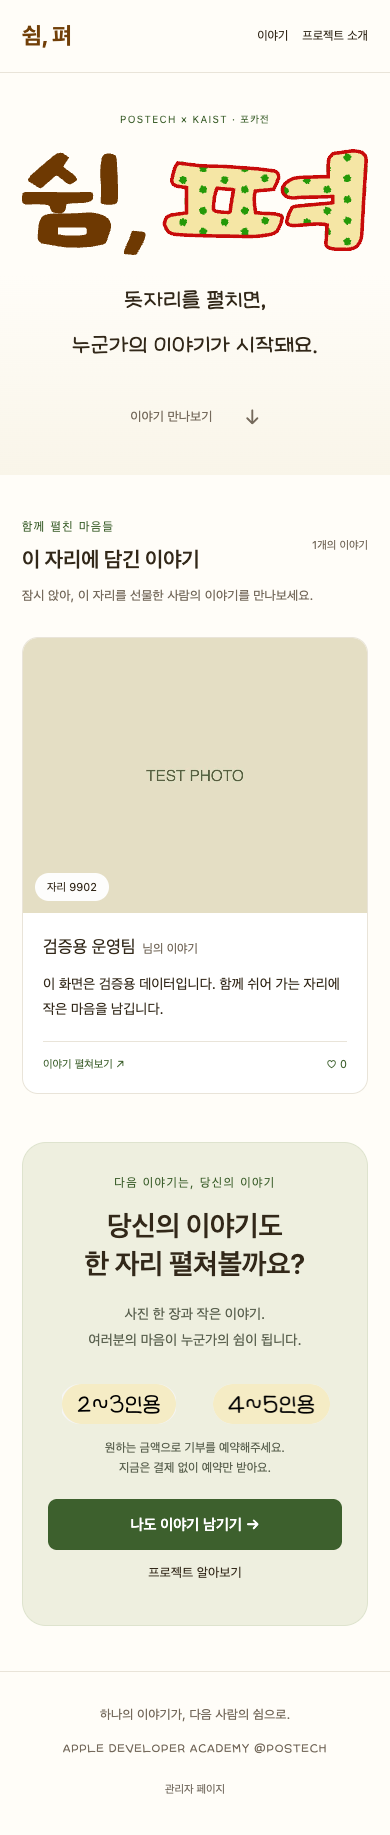
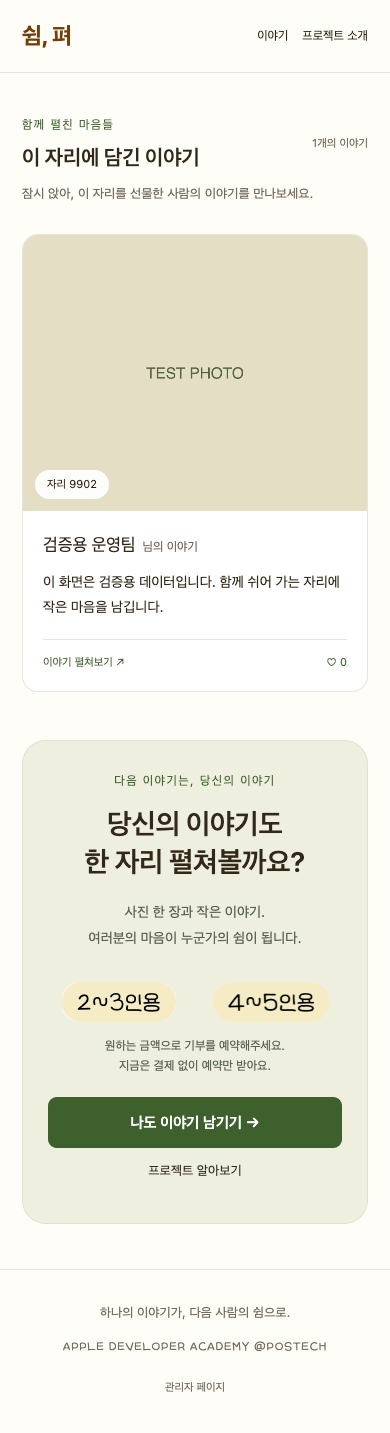
[fix] 메인을 이야기 열람 화면으로 변경

diff --git a/apps/web/src/app/globals.css b/apps/web/src/app/globals.css
@@ -2,14 +2,14 @@
 
 :root{--ink:#322819;--muted:#756a5c;--green:#3d602d;--paper:#fffdf8;--cream:#f5e6a5;--border:#e9e4d9;--red:#bb2c22;--radius:16px}
 *{box-sizing:border-box}html{scroll-behavior:smooth;scroll-padding-top:24px}body{margin:0;background:var(--paper);color:var(--ink);font-family:-apple-system,BlinkMacSystemFont,"Apple SD Gothic Neo",sans-serif;font-size:16px;line-height:1.65}a{color:inherit;text-decoration:none}button,input,textarea,select{font:inherit}button,a,input,select,textarea{-webkit-tap-highlight-color:transparent}button{cursor:pointer}button:disabled{cursor:default}img{display:block;max-width:100%}h1,h2,h3,p{margin:0}h1,h2,h3{font-weight:600;line-height:1.35;word-break:keep-all}button:focus-visible,a:focus-visible,input:focus-visible,select:focus-visible,textarea:focus-visible,summary:focus-visible{outline:3px solid var(--green);outline-offset:4px}.sr-only{position:absolute;width:1px;height:1px;padding:0;overflow:hidden;clip:rect(0,0,0,0);white-space:nowrap;border:0}.skip-link{position:fixed;top:-100px;left:16px;z-index:100;padding:12px;background:var(--ink);color:white}.skip-link:focus{top:10px}
-.site-header{max-width:1120px;margin:auto;padding:23px 32px;display:flex;justify-content:space-between;align-items:center;border-bottom:1px solid var(--border);gap:20px}.wordmark{font-size:26px;font-weight:700;color:#713f08;white-space:nowrap}.wordmark span{font-size:12px;font-weight:400;color:var(--muted);margin-left:14px}.site-header nav{display:flex;gap:26px;font-size:14px}.site-header nav a{padding:12px 0}.site-header nav a:hover,.text-link:hover{text-decoration:underline;text-underline-offset:5px}.eyebrow{display:block;letter-spacing:.12em;font-size:12px;color:var(--green)}.hero{position:relative;text-align:center;padding:54px 24px 38px;background:linear-gradient(180deg,#fffdf8 50%,#f9f5e9)}.hero h1{max-width:540px;margin:22px auto 28px}.brand-title{width:100%;height:auto}.hero>p{font-size:21px;line-height:1.85}.hero strong{font-weight:400}.hero-jump{display:inline-flex;align-items:center;gap:32px;padding:14px 20px;margin-top:20px;font-size:13px;color:var(--muted)}.hero-jump span{font-size:20px}.stories-section{max-width:1060px;margin:auto;padding:65px 30px 80px}.section-heading{display:flex;justify-content:space-between;align-items:center;gap:20px}.section-heading h2{font-size:28px;margin-top:8px}.count{font-size:13px;white-space:nowrap;color:var(--muted)}.section-description{color:var(--muted);font-size:14px;margin:12px 0 30px;word-break:keep-all}.story-grid{display:grid;grid-template-columns:repeat(3,minmax(0,1fr));gap:26px}.story-card{display:block;background:white;border:1px solid var(--border);border-radius:var(--radius);overflow:hidden;transition:transform .2s,box-shadow .2s}.story-card:hover{transform:translateY(-4px);box-shadow:0 12px 30px #372a1010}.card-photo{position:relative;aspect-ratio:1.18;overflow:hidden;background:#eeeadf}.card-photo>img{width:100%;height:100%;object-fit:cover}.mat-number{position:absolute;bottom:12px;left:12px;background:#fffffff0;border-radius:30px;font-size:11px;padding:5px 12px}.card-copy{padding:20px}.card-name{font-size:18px;overflow-wrap:anywhere}.card-name>span{font-size:12px;margin-left:6px;color:var(--muted)}.card-story{font-size:14px;margin-top:10px;line-height:1.8;display:-webkit-box;-webkit-line-clamp:3;-webkit-box-orient:vertical;overflow:hidden;min-height:76px;overflow-wrap:anywhere;white-space:pre-wrap}.card-bottom{display:flex;justify-content:space-between;gap:8px;border-top:1px solid var(--border);margin-top:20px;padding-top:13px;font-size:11px;color:var(--green)}.empty-state{padding:50px 24px;text-align:center;background:#f8f5eb;border-radius:var(--radius)}.empty-state h3{font-size:20px;margin-bottom:10px}.empty-state p{color:var(--muted)}
+.site-header{max-width:1120px;margin:auto;padding:23px 32px;display:flex;justify-content:space-between;align-items:center;border-bottom:1px solid var(--border);gap:20px}.wordmark{font-size:26px;font-weight:700;color:#713f08;white-space:nowrap}.wordmark span{font-size:12px;font-weight:400;color:var(--muted);margin-left:14px}.site-header nav{display:flex;gap:26px;font-size:14px}.site-header nav a{padding:12px 0}.site-header nav a:hover,.text-link:hover{text-decoration:underline;text-underline-offset:5px}.eyebrow{display:block;letter-spacing:.12em;font-size:12px;color:var(--green)}.hero{position:relative;text-align:center;padding:54px 24px 38px;background:linear-gradient(180deg,#fffdf8 50%,#f9f5e9)}.hero h1{max-width:540px;margin:22px auto 28px}.brand-title{width:100%;height:auto}.hero>p{font-size:21px;line-height:1.85}.hero strong{font-weight:400}.hero-jump{display:inline-flex;align-items:center;gap:32px;padding:14px 20px;margin-top:20px;font-size:13px;color:var(--muted)}.hero-jump span{font-size:20px}.stories-section{max-width:1060px;margin:auto;padding:65px 30px 80px}.section-heading{display:flex;justify-content:space-between;align-items:center;gap:20px}.section-heading h2,.section-heading h1{font-size:28px;margin-top:8px}.count{font-size:13px;white-space:nowrap;color:var(--muted)}.section-description{color:var(--muted);font-size:14px;margin:12px 0 30px;word-break:keep-all}.story-grid{display:grid;grid-template-columns:repeat(3,minmax(0,1fr));gap:26px}.story-card{display:block;background:white;border:1px solid var(--border);border-radius:var(--radius);overflow:hidden;transition:transform .2s,box-shadow .2s}.story-card:hover{transform:translateY(-4px);box-shadow:0 12px 30px #372a1010}.card-photo{position:relative;aspect-ratio:1.18;overflow:hidden;background:#eeeadf}.card-photo>img{width:100%;height:100%;object-fit:cover}.mat-number{position:absolute;bottom:12px;left:12px;background:#fffffff0;border-radius:30px;font-size:11px;padding:5px 12px}.card-copy{padding:20px}.card-name{font-size:18px;overflow-wrap:anywhere}.card-name>span{font-size:12px;margin-left:6px;color:var(--muted)}.card-story{font-size:14px;margin-top:10px;line-height:1.8;display:-webkit-box;-webkit-line-clamp:3;-webkit-box-orient:vertical;overflow:hidden;min-height:76px;overflow-wrap:anywhere;white-space:pre-wrap}.card-bottom{display:flex;justify-content:space-between;gap:8px;border-top:1px solid var(--border);margin-top:20px;padding-top:13px;font-size:11px;color:var(--green)}.empty-state{padding:50px 24px;text-align:center;background:#f8f5eb;border-radius:var(--radius)}.empty-state h3{font-size:20px;margin-bottom:10px}.empty-state p{color:var(--muted)}
 .donation{max-width:1000px;margin:0 auto 75px;padding:46px 48px;background:#eeefdf;border:1px solid #dee3ce;border-radius:24px;display:grid;grid-template-columns:1fr 1fr;gap:50px}.donation h2{font-size:30px;margin:14px 0 18px}.donation-heading>p{font-size:14px;color:#5b6250;line-height:1.9}.donation-details{align-self:center}.mat-options{display:grid;grid-template-columns:1fr 1fr;gap:12px}.mat-options>div{display:flex;flex-direction:column;align-items:center;gap:10px}.mat-options strong{font-size:23px;font-weight:500}.mat-options img{object-fit:contain}.donation-note{font-size:12px;text-align:center;color:#5b6250;margin:14px 0 22px}.button{min-height:48px;padding:13px 22px;border-radius:9px;border:1px solid transparent;display:inline-flex;align-items:center;justify-content:center;gap:18px;font-weight:600;font-size:15px;text-align:center;line-height:1.5}.primary{background:var(--green);color:#fff}.primary:hover{background:#2e4c20}.button:disabled{opacity:.55}.secondary{background:white;border-color:var(--border)}.secondary:hover{background:#f3f1e9}.donation .primary{width:100%}.text-link{font-size:13px;text-align:center;display:block;padding:12px}.bank-info{padding:20px 0;border-top:1px solid #d7ddc7;margin-bottom:10px;font-size:14px;overflow-wrap:anywhere}.bank-info h3{font-size:14px;margin-bottom:8px}.notice{margin-top:10px;color:#854323;font-size:12px}.site-footer{padding:32px 24px 24px;text-align:center;border-top:1px solid var(--border);color:var(--muted);font-size:13px}.academy{font-size:10px;letter-spacing:.07em;margin-top:12px}.admin-link{display:inline-flex;align-items:center;min-height:44px;font-size:11px;margin-top:8px;color:#766e63}.admin-link:hover{text-decoration:underline}
 .story-detail{max-width:760px;margin:0 auto;padding:28px 30px 65px}.back-link{font-size:13px;color:var(--muted);display:inline-flex;padding:10px 0}.detail-heading{text-align:center;margin:34px 0 30px}.detail-number{font-size:13px;margin:10px 0 12px;color:var(--muted)}.detail-number span{margin-left:10px;border-left:1px solid var(--border);padding-left:10px}.detail-heading h1{font-size:32px;overflow-wrap:anywhere;word-break:normal}.detail-heading h1 span{display:block;font-size:17px;color:var(--muted);margin-top:6px}.story-paper{padding:18px;background:#fff;border:1px solid var(--border);box-shadow:0 7px 24px #47381109;transform:rotate(-.5deg)}.detail-photo{width:100%;max-height:600px;object-fit:contain;background:#f7f5ef}.story-letter{padding:34px 25px 24px;text-align:center}.story-letter p{font-size:22px;line-height:1.95;white-space:pre-wrap;overflow-wrap:anywhere}.story-letter>span{display:block;margin-top:25px;color:var(--muted);font-size:13px;overflow-wrap:anywhere}.reaction-wrap{text-align:center;margin:35px 0 25px}.reaction-button{display:inline-flex;align-items:center;gap:10px;background:#fff;border:1px solid #ddc2aa;border-radius:40px;padding:13px 23px;min-height:52px;font-size:15px;color:var(--ink)}.reaction-button>span{font-size:25px;color:var(--red);line-height:1}.reaction-button strong{font-size:14px;font-weight:400;border-left:1px solid var(--border);padding-left:12px}.reaction-button.reacted{background:#fcf0e8;border-color:#d9ab90}.reaction-wrap>p{font-size:12px;margin-top:12px;color:var(--muted)}.story-detail>.secondary{display:flex;margin:0 auto;width:max-content;max-width:100%;font-size:13px}
 .about-intro{text-align:center;padding:60px 24px}.about-intro h1{max-width:480px;margin:25px auto 50px}.about-intro h2{font-size:34px;margin-bottom:28px}.about-intro p{line-height:2.2;color:var(--muted);margin-top:24px}.about-steps{max-width:1000px;margin:0 auto 60px;padding:0 30px}.about-steps>h2{font-size:25px;text-align:center}.about-steps ol{list-style:none;padding:0;margin:36px 0;display:grid;grid-template-columns:repeat(3,1fr);gap:25px}.about-steps li{padding:26px 0;border-top:1px solid var(--border)}.about-steps li>span{color:var(--green);font-size:13px}.about-steps h3{font-size:19px;margin:12px 0}.about-steps p{font-size:14px;color:var(--muted)}.page-message{text-align:center;padding:100px 24px;min-height:65vh}.page-message h1{font-size:26px}.page-message p{margin:20px 0 30px;color:var(--muted)}
 label{display:block;font-size:14px;font-weight:600}input,textarea,select{display:block;width:100%;padding:12px 14px;border:1px solid #cfc9bd;border-radius:8px;background:#fff;color:var(--ink);min-height:48px;margin-top:7px}textarea{resize:vertical}small{font-size:12px;color:var(--muted);font-weight:400;display:block;margin-top:6px}fieldset{border:0;margin:0;padding:0;min-width:0}input[type=checkbox]{width:20px;height:20px;min-height:20px;margin:0;accent-color:var(--green)}.error-message{color:#a32520!important;font-size:13px;margin:12px 0}.login-panel{max-width:460px;margin:70px auto 100px;padding:30px}.login-panel h1{margin:10px 0 15px;font-size:30px}.login-panel>p{font-size:14px;color:var(--muted)}.login-panel form{margin-top:30px}.login-panel .button{width:100%;margin-top:20px}.admin-page{max-width:1000px;margin:auto;padding:45px 30px 70px}.admin-page h1{font-size:30px;margin-top:8px}.admin-page>.section-heading+p{color:var(--muted);margin-top:12px;font-size:14px}.text-button,.danger-button{background:none;border:0;padding:12px;font-size:13px;min-height:44px}.danger-button{color:#a32520;text-decoration:underline}.admin-summary{display:flex;flex-wrap:wrap;gap:25px;padding:25px;background:#f2f0e6;margin:25px 0;border-radius:12px;font-size:13px}.admin-summary strong{margin-left:8px;font-size:22px}.editor{background:white;padding:28px;border:1px solid var(--border);border-radius:16px;margin:25px 0}.editor h2{font-size:23px;margin:0}.editor fieldset>label,.editor .form-row{margin-top:22px}.form-row{display:grid;grid-template-columns:1fr 1fr;gap:20px}.review-checks{display:flex;flex-direction:column;gap:16px;margin:25px 0}.review-checks label{display:flex;align-items:center;gap:10px;font-weight:400}.preview-panel{padding:20px;background:var(--paper);border:1px solid var(--border);margin-bottom:24px;border-radius:10px}.preview-panel summary{cursor:pointer;font-size:14px}.preview-panel img{max-height:300px;margin:20px auto;object-fit:contain}.preview-panel h3{margin-top:18px;font-size:20px;overflow-wrap:anywhere}.preview-panel p{white-space:pre-wrap;overflow-wrap:anywhere;margin-top:15px}.delete-area{margin-top:22px;padding-top:16px;border-top:1px solid var(--border);font-size:13px}.admin-filters{display:grid;grid-template-columns:1fr 150px;gap:12px;margin:25px 0}.admin-list article{display:flex;justify-content:space-between;align-items:center;gap:25px;padding:25px 0;border-top:1px solid var(--border)}.admin-list article>div:first-child{min-width:0}.admin-list h2{font-size:20px;margin:8px 0;overflow-wrap:anywhere}.admin-list p{font-size:13px;color:var(--muted)}.admin-story-text{overflow-wrap:anywhere;margin-top:10px}.status-badge{display:inline-block;font-size:11px;background:#eae6dc;padding:3px 9px;border-radius:5px}.status-badge.public{background:#e3ecd9;color:#305020}.admin-actions{flex-shrink:0}
 @media(min-width:1200px){.hero{padding-top:65px;padding-bottom:48px}.hero h1{max-width:590px}.story-grid{gap:30px}}
-@media(max-width:760px){.wordmark span{display:none}.site-header{padding:14px 22px}.site-header nav{gap:19px;font-size:12px}.wordmark{font-size:23px}.hero{padding:38px 22px 28px}.hero h1{margin:22px auto;max-width:430px}.hero>p{font-size:18px}.stories-section{padding:42px 22px 48px}.section-heading h2{font-size:24px}.section-description{font-size:13px}.story-grid{grid-template-columns:repeat(2,minmax(0,1fr));gap:18px}.card-copy{padding:15px}.card-name{font-size:17px}.card-name>span{display:block;margin:3px 0 0}.card-story{font-size:13px;min-height:70px}.donation{margin:0 22px 45px;padding:30px 25px;grid-template-columns:1fr;gap:30px}.donation h2{font-size:28px}.donation-heading{text-align:center}.donation-details{max-width:400px;width:100%;margin:auto}.detail-heading h1{font-size:28px}.story-detail{padding:22px 22px 45px}.story-letter{padding:28px 12px 20px}.story-letter p{font-size:20px}.about-steps ol{grid-template-columns:1fr;gap:0}.about-steps{margin-bottom:30px}.about-intro{padding:45px 24px}.about-intro h2{font-size:28px}.admin-page{padding:30px 20px}.admin-summary{gap:16px;padding:20px}.editor{padding:20px}.admin-list article{gap:12px}.admin-actions .button{font-size:12px;padding:10px 14px}.form-row{grid-template-columns:1fr;gap:18px}}
-@media(max-width:440px){.story-grid{grid-template-columns:1fr;gap:24px}.card-photo{aspect-ratio:1.25}.card-copy{padding:20px}.card-name>span{display:inline;margin-left:7px}.card-story{font-size:14px;min-height:auto}.hero>.eyebrow{font-size:10px}.section-heading{gap:10px}.section-heading h2{font-size:21px}.count{font-size:11px}.detail-heading h1{font-size:26px}.story-paper{padding:12px;transform:none}.story-letter p{font-size:19px}.reaction-button{padding:12px 17px;font-size:13px;gap:8px}.admin-list article{align-items:flex-start;flex-direction:column}.admin-actions{display:flex;gap:12px}.admin-filters{grid-template-columns:1fr}.admin-page h1{font-size:26px}.site-header nav{gap:14px}}
+@media(max-width:760px){.wordmark span{display:none}.site-header{padding:14px 22px}.site-header nav{gap:19px;font-size:12px}.wordmark{font-size:23px}.hero{padding:38px 22px 28px}.hero h1{margin:22px auto;max-width:430px}.hero>p{font-size:18px}.stories-section{padding:42px 22px 48px}.section-heading h2,.section-heading h1{font-size:24px}.section-description{font-size:13px}.story-grid{grid-template-columns:repeat(2,minmax(0,1fr));gap:18px}.card-copy{padding:15px}.card-name{font-size:17px}.card-name>span{display:block;margin:3px 0 0}.card-story{font-size:13px;min-height:70px}.donation{margin:0 22px 45px;padding:30px 25px;grid-template-columns:1fr;gap:30px}.donation h2{font-size:28px}.donation-heading{text-align:center}.donation-details{max-width:400px;width:100%;margin:auto}.detail-heading h1{font-size:28px}.story-detail{padding:22px 22px 45px}.story-letter{padding:28px 12px 20px}.story-letter p{font-size:20px}.about-steps ol{grid-template-columns:1fr;gap:0}.about-steps{margin-bottom:30px}.about-intro{padding:45px 24px}.about-intro h2{font-size:28px}.admin-page{padding:30px 20px}.admin-summary{gap:16px;padding:20px}.editor{padding:20px}.admin-list article{gap:12px}.admin-actions .button{font-size:12px;padding:10px 14px}.form-row{grid-template-columns:1fr;gap:18px}}
+@media(max-width:440px){.story-grid{grid-template-columns:1fr;gap:24px}.card-photo{aspect-ratio:1.25}.card-copy{padding:20px}.card-name>span{display:inline;margin-left:7px}.card-story{font-size:14px;min-height:auto}.hero>.eyebrow{font-size:10px}.section-heading{gap:10px}.section-heading h2,.section-heading h1{font-size:21px}.count{font-size:11px}.detail-heading h1{font-size:26px}.story-paper{padding:12px;transform:none}.story-letter p{font-size:19px}.reaction-button{padding:12px 17px;font-size:13px;gap:8px}.admin-list article{align-items:flex-start;flex-direction:column}.admin-actions{display:flex;gap:12px}.admin-filters{grid-template-columns:1fr}.admin-page h1{font-size:26px}.site-header nav{gap:14px}}
 @media(prefers-reduced-motion:reduce){html{scroll-behavior:auto}*,*::before,*::after{transition:none!important;animation:none!important}.story-card:hover{transform:none}}
 .skip-link{visibility:hidden}.skip-link:focus{visibility:visible}.mat-options img{border-radius:50px}
 
@@ -128,3 +128,9 @@ label{display:block;font-size:14px;font-weight:600}input,textarea,select{display
 }
 
 .reaction-grid .reaction-button img{mix-blend-mode:multiply}
+.amount-input input[type=number]{appearance:textfield;-moz-appearance:textfield}
+.amount-input input[type=number]::-webkit-inner-spin-button,.amount-input input[type=number]::-webkit-outer-spin-button{-webkit-appearance:none;margin:0}
+.story-reading .empty-story{text-align:center;padding:55px 22px}
+.empty-story h1{font-family:"LeeSeoyun",sans-serif;font-size:32px;font-weight:400;margin:24px 0}
+.empty-story>p{color:var(--muted);font-size:14px}
+.reaction-button:disabled:not(.reacted){opacity:.65}

diff --git a/apps/web/tests/browser/story.spec.ts b/apps/web/tests/browser/story.spec.ts
@@ -31,7 +31,15 @@ test("admin registration, publication, mobile reading and one-device reaction", 
     await page.screenshot({ path: `${screenshotDir}/admin-desktop.png`, fullPage: true });
     await page.goto("/");
     await page.evaluate(() => document.fonts.ready);
+    await expect(page.locator(".story-reading h1")).toHaveText("함께 쉬어 가는 자리에 남긴 마음");
+    await expect(page.getByRole("heading", { name: "사용 안내서" })).toBeVisible();
+    await expect(page.locator(".reaction-button")).toHaveCount(4);
+    await page.screenshot({ path: `${screenshotDir}/home-desktop.png`, fullPage: true });
+    await page.setViewportSize({ width: 390, height: 844 });
+    await page.screenshot({ path: `${screenshotDir}/home-mobile.png`, fullPage: true });
+    await page.goto("/stories");
     await expect(page.locator(".story-card")).toHaveCount(1);
+    await page.setViewportSize({ width: 1440, height: 1000 });
     await page.screenshot({ path: `${screenshotDir}/stories-desktop.png`, fullPage: true });
     await page.setViewportSize({ width: 390, height: 844 });
     await page.screenshot({ path: `${screenshotDir}/stories-mobile.png`, fullPage: true });
@@ -67,7 +75,9 @@ test("admin registration, publication, mobile reading and one-device reaction", 
     await page.getByRole("textbox", { name: "스토리", exact: true }).fill("검증용 예약입니다. 이 이야기를 읽고 다음 사람에게도 쉼을 남기고 싶었어요.");
     await page.locator('input[name="photo"]').setInputFiles({ name: "test.jpg", mimeType: "image/jpeg", buffer: photo });
     await page.getByLabel("간편결제", { exact: true }).check();
-    await page.getByRole("spinbutton", { name: "결제예정 금액" }).fill("7200");
+    const amount = page.getByRole("spinbutton", { name: "결제예정 금액" });
+    await amount.fill("7200");
+    expect(await amount.evaluate(input => getComputedStyle(input).appearance)).toBe("textfield");
     for (const width of [320,390,768,1440]) {
       await page.setViewportSize({width,height:900});
       expect(await page.evaluate(() => document.documentElement.scrollWidth <= innerWidth)).toBe(true);
@@ -102,6 +112,10 @@ test("admin registration, publication, mobile reading and one-device reaction", 
     await page.getByRole("button", { name: "로그아웃" }).click();
     await expect(page.getByRole("button", { name: "관리자 페이지로 이동" })).toBeVisible();
     await page.goto(`/stories/${storyId}`); await expect(page.getByRole("heading", { name: "아직 펼쳐지지 않은 이야기예요." })).toBeVisible();
+    await page.goto("/");
+    await expect(page.locator(".empty-story h1")).toContainText("펼칠 준비를 하고 있어요.");
+    await expect(page.locator(".reaction-button:disabled")).toHaveCount(4);
+    await expect(page.getByRole("link", { name: /나도 이야기 남기기/ })).toHaveAttribute("href", "/reserve");
     expect(errors).toEqual([]);
   } finally {
     if (reservationId) await pool.query("DELETE FROM mat_reservations WHERE id=$1", [reservationId]);

diff --git a/apps/web/src/components/reaction.tsx b/apps/web/src/components/reaction.tsx
@@ -8,7 +8,7 @@ function deviceId() {
   if (!id || !/^[a-f0-9-]{36}$/i.test(id)) { id = crypto.randomUUID(); localStorage.setItem("mat-device", id); }
   return id;
 }
-export function Reaction({ id }: { id: string }) {
+export function Reaction({ id }: { id?: string }) {
   const [counts, setCounts] = useState(emptyCounts);
   const [selected, setSelected] = useState<ReactionKind[]>([]);
   const [ready, setReady] = useState(false);
@@ -16,6 +16,7 @@ export function Reaction({ id }: { id: string }) {
   const [error, setError] = useState("");
   const locked = useRef(false);
   useEffect(() => {
+    if (!id) return;
     const controller = new AbortController();
     async function load() {
       try {
@@ -27,7 +28,7 @@ export function Reaction({ id }: { id: string }) {
     void load(); return () => controller.abort();
   }, [id]);
   async function react(kind: ReactionKind) {
-    if (locked.current || selected.includes(kind)) return;
+    if (!id || locked.current || selected.includes(kind)) return;
     locked.current = true; setBusy(true); setError("");
     try {
       const response = await fetch(`/api/stories/${id}/reaction`, { method: "POST", headers: { "Content-Type": "application/json" }, body: JSON.stringify({ deviceId: deviceId(), action: "react", kind }) });
@@ -36,5 +37,5 @@ export function Reaction({ id }: { id: string }) {
     } catch (e) { setError(e instanceof Error ? e.message : "마음을 남기지 못했어요. 다시 시도해주세요."); }
     finally { locked.current = false; setBusy(false); }
   }
-  return <section className="reaction-wrap" aria-label="이야기에 마음 남기기"><div className="reaction-grid">{reactionKinds.map((kind) => <button key={kind} className={`reaction-button ${selected.includes(kind) ? "reacted" : ""}`} disabled={!ready || busy || selected.includes(kind)} onClick={() => react(kind)} aria-pressed={selected.includes(kind)} aria-label={`${reactionLabels[kind]} ${counts[kind]}개`}><img src={`/brand/reaction-${kind}.png`} width="28" height="28" alt="" /><span>{reactionLabels[kind]}</span><strong>{counts[kind]}</strong></button>)}</div><p>마음이 닿는 반응을 모두 남겨주세요.</p>{error && <p className="error-message" role="alert">{error}</p>}</section>;
+  return <section className="reaction-wrap" aria-label="이야기에 마음 남기기"><div className="reaction-grid">{reactionKinds.map((kind) => <button key={kind} className={`reaction-button ${selected.includes(kind) ? "reacted" : ""}`} disabled={!ready || busy || selected.includes(kind)} onClick={() => react(kind)} aria-pressed={selected.includes(kind)} aria-label={`${reactionLabels[kind]} ${counts[kind]}개`}><img src={`/brand/reaction-${kind}.png`} width="28" height="28" alt="" /><span>{reactionLabels[kind]}</span><strong>{counts[kind]}</strong></button>)}</div><p>{id ? "마음이 닿는 반응을 모두 남겨주세요." : "이야기가 공개되면 마음을 남길 수 있어요."}</p>{error && <p className="error-message" role="alert">{error}</p>}</section>;
 }

diff --git a/apps/web/src/components/donation.tsx b/apps/web/src/components/donation.tsx
@@ -1,5 +1,5 @@
 /* eslint-disable @next/next/no-img-element */
 import Link from "next/link";
-export function Donation({ detailed = false, sourceStoryId }: { detailed?: boolean; sourceStoryId?: string }) {
-  return <section className={`donation ${sourceStoryId ? "story-donation" : ""}`} aria-labelledby="donation-title"><div className="donation-heading"><span className="eyebrow">다음 이야기는, 당신의 이야기</span><h2 id="donation-title">당신의 이야기도<br />한 자리 펼쳐볼까요?</h2><p>사진 한 장과 작은 이야기.<br />여러분의 마음이 누군가의 쉼이 됩니다.</p></div><div className="donation-details"><div className="mat-options"><img src="/brand/small-mat.png" alt="2~3인용 돗자리" width="117" height="40" /><img src="/brand/large-mat.png" alt="4~5인용 돗자리" width="117" height="40" /></div><p className="donation-note">원하는 금액으로 기부를 예약해주세요.<br />지금은 결제 없이 예약만 받아요.</p><Link className="button primary" href={sourceStoryId ? `/reserve?from=${sourceStoryId}` : "/reserve"}>나도 이야기 남기기 →</Link>{!detailed && <Link className="text-link" href="/about">프로젝트 알아보기</Link>}</div></section>;
+export function Donation({ detailed = false, sourceStoryId, compact = false }: { detailed?: boolean; sourceStoryId?: string; compact?: boolean }) {
+  return <section className={`donation ${compact || sourceStoryId ? "story-donation" : ""}`} aria-labelledby="donation-title"><div className="donation-heading"><span className="eyebrow">다음 이야기는, 당신의 이야기</span><h2 id="donation-title">당신의 이야기도<br />한 자리 펼쳐볼까요?</h2><p>사진 한 장과 작은 이야기.<br />여러분의 마음이 누군가의 쉼이 됩니다.</p></div><div className="donation-details"><div className="mat-options"><img src="/brand/small-mat.png" alt="2~3인용 돗자리" width="117" height="40" /><img src="/brand/large-mat.png" alt="4~5인용 돗자리" width="117" height="40" /></div><p className="donation-note">원하는 금액으로 기부를 예약해주세요.<br />지금은 결제 없이 예약만 받아요.</p><Link className="button primary" href={sourceStoryId ? `/reserve?from=${sourceStoryId}` : "/reserve"}>나도 이야기 남기기 →</Link>{!detailed && <Link className="text-link" href="/about">프로젝트 알아보기</Link>}</div></section>;
 }

diff --git a/apps/web/src/app/stories/[id]/page.tsx b/apps/web/src/app/stories/[id]/page.tsx
@@ -1,14 +1,12 @@
-/* eslint-disable @next/next/no-img-element */
-import Link from "next/link";
 import { notFound } from "next/navigation";
 import { getStory } from "@/lib/stories";
 import { uuid } from "@/lib/story";
-import { Reaction } from "@/components/reaction";
-import { Donation } from "@/components/donation";
+import { StoryReading } from "@/components/story-reading";
 export const dynamic = "force-dynamic";
+
 export default async function StoryPage({ params }: { params: Promise<{ id: string }> }) {
   const { id } = await params;
   if (!uuid.safeParse(id).success) notFound();
   const story = await getStory(id); if (!story) notFound();
-  return <div className="story-reading"><div className="reading-brand"><img src="/brand/title.svg" alt="쉼, 펴" /></div><article className="story-detail"><div className="story-paper"><div className="donor-intro"><span className="eyebrow">자리 {String(story.mat_number).padStart(3, "0")} · {story.display_name}님의 선물</span><p>이 돗자리에 담긴 마음</p><h1>{story.title || `${story.display_name}님이 펼친 이야기`}</h1><p>당신의 쉼과 함께 펼쳐집니다.</p></div><img className="detail-photo" src={`/api/stories/${id}/photo?v=${story.revision}`} alt={`${story.display_name}님이 남긴 사진`} /><div className="story-letter"><p>{story.story}</p><span>이 자리를 선물한 {story.display_name} 드림</span></div></div><Reaction key={id} id={id} /><section className="usage-guide"><span className="eyebrow">우리의 쉼이 오래 이어지도록</span><h2>사용 안내서</h2><ol><li>이 돗자리는 애플디벨로퍼아카데미 5기 러너들의 기부를 통해 마련한 돗자리입니다!<br /><strong>깨끗하게 사용 부탁드립니다!</strong></li><li>반납 시 운영진에게 돌아오셔서 <strong>성함 확인 후 반납</strong> 부탁드립니다!</li><li>문의사항이나 필요사항이 있으시면 운영진 부스에 문의 부탁드립니다!</li></ol></section><Donation sourceStoryId={id} /><Link className="text-link" href="/#stories">다른 자리의 이야기도 만나보기 →</Link></article></div>;
+  return <StoryReading story={story} />;
 }

diff --git a/apps/web/src/components/story-reading.tsx b/apps/web/src/components/story-reading.tsx
@@ -1,0 +1,14 @@
+/* eslint-disable @next/next/no-img-element */
+import Link from "next/link";
+import type { Story } from "@/lib/story";
+import { Reaction } from "./reaction";
+import { Donation } from "./donation";
+
+export function StoryReading({ story }: { story?: Story }) {
+  return <div className="story-reading"><div className="reading-brand"><img src="/brand/title.svg" alt="쉼, 펴" /></div><article className="story-detail">
+    {story ? <div className="story-paper"><div className="donor-intro"><span className="eyebrow">자리 {String(story.mat_number).padStart(3, "0")} · {story.display_name}님의 선물</span><p>이 돗자리에 담긴 마음</p><h1>{story.title || `${story.display_name}님이 펼친 이야기`}</h1><p>당신의 쉼과 함께 펼쳐집니다.</p></div><img className="detail-photo" src={`/api/stories/${story.id}/photo?v=${story.revision}`} alt={`${story.display_name}님이 남긴 사진`} /><div className="story-letter"><p>{story.story}</p><span>이 자리를 선물한 {story.display_name} 드림</span></div></div> : <section className="story-paper empty-story"><span className="eyebrow">이 자리에 담길 첫 번째 마음</span><h1>첫 이야기를<br />펼칠 준비를 하고 있어요.</h1><p>운영진이 확인한 사진과 이야기가<br />곧 이 자리에 담깁니다.</p></section>}
+    <Reaction key={story?.id || "empty"} id={story?.id} />
+    <section className="usage-guide"><span className="eyebrow">우리의 쉼이 오래 이어지도록</span><h2>사용 안내서</h2><ol><li>이 돗자리는 애플디벨로퍼아카데미 5기 러너들의 기부를 통해 마련한 돗자리입니다!<br /><strong>깨끗하게 사용 부탁드립니다!</strong></li><li>반납 시 운영진에게 돌아오셔서 <strong>성함 확인 후 반납</strong> 부탁드립니다!</li><li>문의사항이나 필요사항이 있으시면 운영진 부스에 문의 부탁드립니다!</li></ol></section>
+    <Donation compact sourceStoryId={story?.id} /><Link className="text-link" href="/stories">다른 자리의 이야기도 만나보기 →</Link>
+  </article></div>;
+}

diff --git a/apps/web/src/app/page.tsx b/apps/web/src/app/page.tsx
@@ -1,13 +1,8 @@
-/* eslint-disable @next/next/no-img-element */
 import { listStories } from "@/lib/stories";
-import { StoryCard } from "@/components/story-card";
-import { Donation } from "@/components/donation";
+import { StoryReading } from "@/components/story-reading";
 export const dynamic = "force-dynamic";
 
 export default async function Home() {
   const stories = await listStories();
-  return <><section className="hero"><span className="eyebrow">POSTECH × KAIST · 포카전</span><h1><img className="brand-title" src="/brand/title.svg" alt="쉼, 펴 — 기부돗자리 대여 프로젝트" /></h1><p>돗자리를 펼치면,<br /><strong>누군가의 이야기가 시작돼요.</strong></p><a href="#stories" className="hero-jump">이야기 만나보기 <span aria-hidden="true">↓</span></a></section>
-    <section className="stories-section" id="stories"><div className="section-heading"><div><span className="eyebrow">함께 펼친 마음들</span><h2>이 자리에 담긴 이야기</h2></div><span className="count">{stories.length}개의 이야기</span></div><p className="section-description">잠시 앉아, 이 자리를 선물한 사람의 이야기를 만나보세요.</p>
-      {stories.length ? <div className="story-grid">{stories.map((story) => <StoryCard key={story.id} story={story} />)}</div> : <div className="empty-state"><h3>첫 이야기를 펼칠 준비를 하고 있어요.</h3><p>운영진이 확인한 이야기가 곧 이곳에 담깁니다.</p></div>}
-    </section><Donation /></>;
+  return <StoryReading story={stories[0]} />;
 }

diff --git a/apps/web/src/app/stories/page.tsx b/apps/web/src/app/stories/page.tsx
@@ -1,0 +1,12 @@
+import { listStories } from "@/lib/stories";
+import { StoryCard } from "@/components/story-card";
+import { Donation } from "@/components/donation";
+export const dynamic = "force-dynamic";
+export const metadata = { title: "모든 이야기" };
+
+export default async function Stories() {
+  const stories = await listStories();
+  return <><section className="stories-section" id="stories"><div className="section-heading"><div><span className="eyebrow">함께 펼친 마음들</span><h1>이 자리에 담긴 이야기</h1></div><span className="count">{stories.length}개의 이야기</span></div><p className="section-description">잠시 앉아, 이 자리를 선물한 사람의 이야기를 만나보세요.</p>
+    {stories.length ? <div className="story-grid">{stories.map((story) => <StoryCard key={story.id} story={story} />)}</div> : <div className="empty-state"><h2>첫 이야기를 펼칠 준비를 하고 있어요.</h2><p>운영진이 확인한 이야기가 곧 이곳에 담깁니다.</p></div>}
+  </section><Donation /></>;
+}

diff --git a/docs/MAT-WEB.md b/docs/MAT-WEB.md
@@ -4,7 +4,8 @@
 
 ## 사용자 흐름
 
-- `/`: 공개 이야기 목록, 기부 예약 안내
+- `/`: 첫 공개 이야기의 제목·사진·본문 → 네 가지 반응 → 사용 안내 → 기부 예약 안내
+- `/stories`: 전체 공개 이야기 목록
 - `/stories/:id`: 기존 고정 주소로 제목·사진·본문 → 네 가지 반응 → 사용 안내 → 기부 예약
 - `/reserve?from=:id`: 예약 이유·성함·휴대폰번호·제목·본문·사진·희망 결제방법·자유 금액 입력
 - `/about`: 프로젝트 소개와 예약 안내
